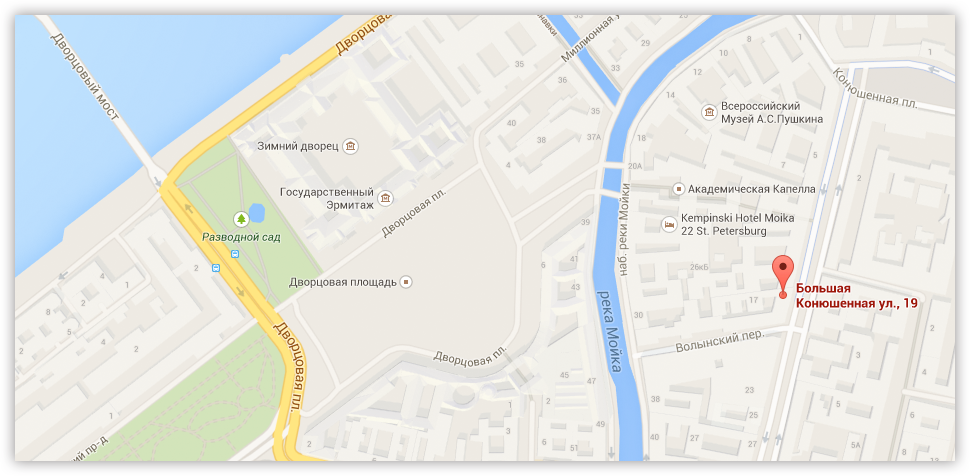
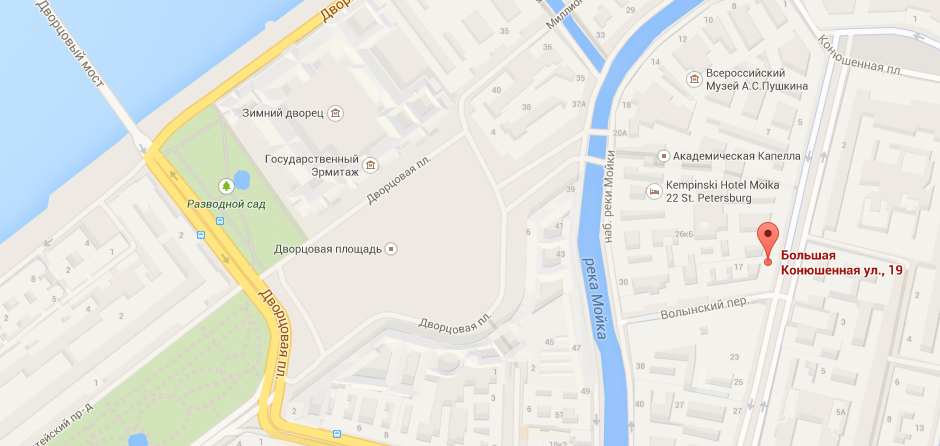
Форма каталога

diff --git a/catalog.html b/catalog.html
@@ -62,29 +62,77 @@
         <div class="catalog-header">
           <h2 class="title catalog">Перфораторы</h2>
         </div>
-        <div class="left-catalog-column">
-          <h3 class="visually-hidden">Фильтр товаров</h3>
-          <div class="block filter">
-            <p class="catalog-text">
-              Фильтр:
-            </p>
-          </div>
-          <h3 class="catalog-title">Цена:</h3>
-          <div class="range-filter">
-            <div class="range">
-            <input type="range" min="0" max="30000" step="1" value=""> 
+        <div class="filters">
+          <form class="filter" action="https://echo.htmlacademy.ru" method="get">
+            <h3 class="visually-hidden">Фильтр товаров</h3>
+            <div class="block filter">
+              <p class="catalog-text">
+                Фильтр:
+              </p>
             </div>
-            <div class="catalog-price-controls">
-              <input class="catalog-min-price" type="text" value="0">
-              <span class="catalog-sign">—</span>
-              <input class="catalog-max-price" type="text" value="30 000">
-            </div>
-          </div>
-          <h3 class="catalog-title">Производители:</h3>
-          <!--Здесь будет форма-->
-          <h3 class="catalog-title">Питание:</h3>
-          <!--Здесь будет форма-->
-          <button type="button" class="filter-btn">Показать</button>
+            
+            
+            
+            <fieldset class="filter filter-price">
+              <h3 class="catalog-title">Цена:</h3>
+              <div class="range-filter">
+                <div class="range-controls">
+                  <input  id="flying" type="range" min="0" max="30000" step="1000" name="range"> 
+                </div>
+                <div class="catalog-price-controls">
+                  <label class="catalog-min-price" for="controls-min">
+                    <input id="controls-min" type="text" value="0">
+                  </label>
+                  <span class="catalog-sign">—</span>
+                  <label class="catalog-max-price" for="controls-max">
+                    <input id="controls-max" type="text" value="30 000">
+                  </label>
+                </div>
+              </div>
+            </fieldset>
+            
+            
+            
+            <fieldset>
+            <h3 class="catalog-title">Производители:</h3>
+              <ul>
+                <li class="filter-option">
+                  <input class="visually-hidden filter-input filter-checkbox" type="checkbox" name="Bosch" id="filter-bosch" checked>
+                  <label for="filter-bosch">Bosch</label>
+                </li>
+                <li class="filter-option">
+                  <input class="visually-hidden filter-input filter-checkbox" type="checkbox" name="interscol" id="filter-interscol">
+                  <label for="filter-interscol">Интерскол</label>
+                </li>
+                <li class="filter-option">
+                  <input class="visually-hidden filter-input filter-checkbox" type="checkbox" name="Makita" id="filter-Makita" checked>
+                  <label for="filter-Makita">Makita</label>
+                </li>
+                <li class="filter-option">
+                  <input class="visually-hidden filter-input filter-checkbox" type="checkbox" name="DeWalt" id="filter-DeWalt">
+                  <label for="filter-DeWalt">DeWalt</label>
+                </li>
+                <li class="filter-option">
+                  <input class="visually-hidden filter-input filter-checkbox" type="checkbox" name="Hitachi" id="filter-Hitachi">
+                  <label for="filter-Hitachi">Hitachi</label>
+                </li>
+              </ul>
+            </fieldset>
+            <fieldset>
+              <h3 class="catalog-title">Питание:</h3>
+              <ul>
+                <li class="filter-option">
+                  <input class="visually-hidden filter-input filter-radio" type="radio" name="power-supply" id="filter-accum" checked>
+                  <label for="filter-accum">Аккумуляторные</label>
+                </li>
+                <li class="filter-option">
+                  <input class="visually-hidden filter-input filter-radio" type="radio" name="power-supply" id="filter-network" checked>
+                  <label for="filter-network">Сетевые</label>
+                </li>
+              </ul>
+            </fieldset>
+            <button type="submit" class="filter-btn">Показать</button>
+          </form>
         </div>
         <div class="right-catalog-column">
           <div class="right-column-header">
@@ -296,8 +344,8 @@
         </div>
       </div>
     </footer>
-    <div class="modal-object modal-cart">
-      <a class="modal-close cart" href="catalog.html" aria-label="Закрыть окно с добавлением товара"></a>
+    <section class="modal-object modal-cart">
+      <a class="modal-close" href="catalog.html" aria-label="Закрыть окно с добавлением товара"></a>
       <div class="modal-content cart-content">
        <p class="cart-text">Товар добавлен в корзину!</p>
       </div>
@@ -305,6 +353,6 @@
         <button class="modal-btn cart-btn" type="submit">Оформить заказ</button>
         <a class="modal-btn close-btn" href="#">Продолжить покупки</a>
       </div>
-    </div>
+    </section>
   </body>
 </html>

diff --git a/index.html b/index.html
@@ -337,8 +337,8 @@
         </div>
       </div>
     </footer>
-    <div class="modal-oject mail-form">
-      <a class="modal-close form" href="#" aria-label="Закрыть форму отправки"></a>
+    <section class="modal-oject mail-form">
+      <a class="modal-close" href="#" aria-label="Закрыть форму отправки"></a>
       <form class="contact-form" action="https://echo.htmlacademy.ru" method="post" aria-label="Форма отправки">
         <div class="modal-content">
           <label class="modal-content" for="modal-username">Ваше имя:
@@ -355,6 +355,11 @@
           <button class="modal-btn" type="sybmit">Отправить</button>
         </div>
       </form>
-    </div>
+    </section>
+    <section class="modal-object modal-map">
+      <h2 class="visually-hidden">Как до нас добраться</h2>
+      <img src="img/big-map.png" width="" height="" alt="Офис компании по адресу ул. Большая Конюшенная 19/8, Санкт-Петербург">
+      <a class="modal-close" href="#" aria-label="Закрыть карту"></a>
+    </section>
   </body>
 </html>
